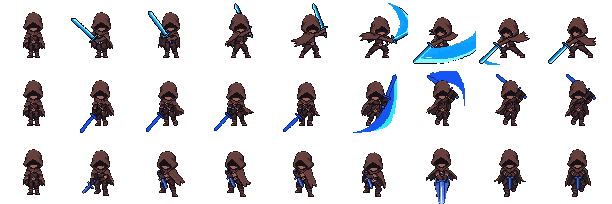
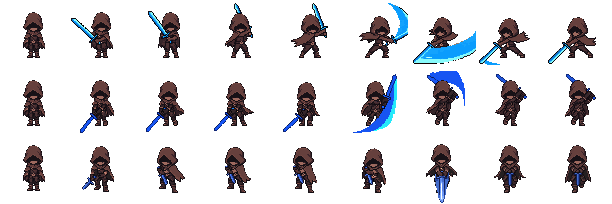
fix: 정면 3타 찌르는 순간 다리가 잘려 보이는 문제 수정
PixelLab 이 칼을 다리 위에 크게 그려 칼을 빼면 다리가 없었다. 찌르는 6~8번째는 칼을 몸 그림에 남기고
(게임 칼 색으로) 게임 칼은 그리지 않는다(길이 비율 0). 칼끝이 잘리지 않게 시트에 6픽셀 올려 담고 그림 옮김으로 되돌림.

diff --git a/assets/concepts/pixellab/player_import/build_remake_preview.py b/assets/concepts/pixellab/player_import/build_remake_preview.py
@@ -48,10 +48,10 @@ OVERRIDES = {
     ('front2', 4): (25, 46, -132, False), ('front2', 5): (44, 29, 62, False),
     ('front2', 6): (47, 28, 140, True), ('front2', 7): (49, 29, 142, True), ('front2', 8): (47, 29, 139, True),
     # 정면 3타 = 찌르기 끝 자세 지정 (2026-11-17 사용자 확정). 칼이 보는 사람 쪽으로 기울어 자동으로 못 찾음
-    ('front3', 1): (25, 45, -129, False), ('front3', 2): (24, 41, -52, False),
-    ('front3', 3): (24, 40, -55, False), ('front3', 4): (25, 40, -59, False),
-    ('front3', 5): (26, 40, -61, False), ('front3', 6): (34, 39, -90, False),
-    ('front3', 7): (34, 39, -90, False), ('front3', 8): (34, 39, -90, False),
+    ('front3', 1): (25, 41, -129, False), ('front3', 2): (24, 37, -52, False),
+    ('front3', 3): (24, 36, -55, False), ('front3', 4): (25, 36, -59, False),
+    ('front3', 5): (26, 36, -61, False), ('front3', 6): (34, 35, -90, False),
+    ('front3', 7): (34, 35, -90, False), ('front3', 8): (34, 35, -90, False),
     # 후면은 두 손이 몸 앞(보는 사람 반대쪽)이라 칼이 몸에 가려진다: 머리 위로 든 때만 몸 위에 그린다
     ('back1', 1): (45, 43, 0, True), ('back1', 2): (44, 38, 54, True),
     ('back1', 3): (42, 28, 134, False), ('back1', 4): (36, 25, 60, False),
@@ -183,6 +183,28 @@ def analyse(frame):
         else:
             smear.extend(comp)
     return best, set(smear), set(blue)
+
+
+# 칼을 빼지 않고 PixelLab 그림 그대로 두는 프레임 (2026-11-17 사용자 결정: 정면 3타 찌르는 순간)
+KEEP_BLADE = {('front3', 6), ('front3', 7), ('front3', 8)}
+# 게임 칼(old_sword.png)의 칼날 색, 어두운 것부터
+STEEL = [(113, 83, 89, 255), (178, 154, 149, 255), (219, 204, 197, 255), (233, 220, 210, 255)]
+
+
+def steel_blade(frame):
+    """파란 칼과 흰 하이라이트를 밝기에 따라 게임 칼 색으로 바꾼다."""
+    img = frame.copy()
+    px = img.load()
+    for y in range(img.height):
+        for x in range(img.width):
+            c = px[x, y]
+            if not c[3]:
+                continue
+            if is_blue(c) or min(c[:3]) > 240:
+                light = sum(c[:3]) / 3
+                level = 0 if light < 90 else 1 if light < 150 else 2 if light < 210 else 3
+                px[x, y] = STEEL[level]
+    return img
 
 
 def white_to_blue(frame):
@@ -438,6 +460,7 @@ def build_layers(name, frames):
     for (n, c), (sheet, row, col) in FRAME_SOURCE.items():
         if n == name:
             frames[c - 1] = cells(sheet, row)[col]
+    originals = list(frames)
     if name in NO_SMEAR:
         # 원본 칼날의 흰 하이라이트 줄(파랑으로 잡히지 않음)도 칼과 함께 지운다. 주인공 그림에는 흰색이 없다.
         frames = [white_to_blue(f) for f in frames]
@@ -493,6 +516,11 @@ def build_layers(name, frames):
                     # 아주 어두운 픽셀은 원본 칼 테두리일 수 있어 칼 위에 다시 그리지 않는다
                     if c[3] and max(c[:3]) >= 45 and math.dist((x, y), (hx, hy)) <= HAND_RADIUS:
                         hand.putpixel((x, y), c)
+        if (name, col) in KEEP_BLADE:
+            # PixelLab 이 그린 칼을 몸 그림에 그대로 둔다 (칼이 다리를 덮어 그려져 빼면 다리가 없음).
+            # 파란 칼만 게임 칼 색으로 바꾸고, 게임 칼과 손 레이어는 그리지 않는다 (칼 길이 비율 0).
+            sheet = steel_blade(originals[col - 1])
+            hand = Image.new('RGBA', (CELL, CELL), (0, 0, 0, 0))
         layers.append({'body': sheet, 'hand': hand, 'sword': (hx, hy, angle, bool(behind))})
     return layers, swords, infos
 

diff --git a/game/config.py b/game/config.py
@@ -139,14 +139,16 @@ PLAYER_ATTACK_SWORD = (
 )
 # 정면(아래를 볼 때) 칼 위치표. 1·2·3타 모두 2026-11-17 PixelLab 그림(8프레임, export_to_game.py 가 뽑은 값.
 # 2타 v9 와 3타 찌르기는 시작·끝 자세를 지정해 만듦). 다섯 번째 값은 칼 길이 비율:
-# 3타는 칼이 보는 사람 쪽으로 기울어 짧아 보이게 그린다 (찌르는 순간만 원래 길이). 후면은 보류 (사용자 결정).
+# 3타는 칼이 보는 사람 쪽으로 기울어 짧아 보이게 그린다. 찌르는 6~8번째는 0 = 게임 칼을 그리지 않고
+# 몸 그림에 남긴 PixelLab 칼(게임 칼 색)을 보여 준다 (칼이 다리를 덮어 그려져 빼면 다리가 없음, 사용자 결정).
+# 후면은 보류 (사용자 결정).
 PLAYER_ATTACK_SWORD_FRONT = (
     ((40, 37, 137, False), (45, 34, 126, False), (61, 32, 117, True), (66, 28, 113, False),
      (64, 38, -40, False), (50, 41, -146, False), (39, 43, -138, False), (38, 41, -135, False)),
     ((40, 45, -129, False), (40, 43, -131, False), (39, 44, -132, False), (39, 44, -132, False),
      (58, 27, 62, False), (61, 26, 140, True), (63, 27, 142, True), (61, 27, 139, True)),
-    ((39, 42, -129, False, 0.6), (38, 38, -52, False, 0.6), (38, 37, -55, False, 0.6), (39, 37, -59, False, 0.6),
-     (40, 37, -61, False, 0.6), (48, 36, -90, False, 1.0), (48, 36, -90, False, 0.55), (48, 36, -90, False, 0.55)),
+    ((39, 36, -129, False, 0.6), (38, 32, -52, False, 0.6), (38, 31, -55, False, 0.6), (39, 31, -59, False, 0.6),
+     (40, 31, -61, False, 0.6), (48, 30, -90, False, 0.0), (48, 30, -90, False, 0.0), (48, 30, -90, False, 0.0)),
 )
 # 정면 타별 프레임 표와 그림 옮김 (같은 진행도에서 고른다). None = 측면과 같은 8프레임 같은 간격.
 # 정면 1·2타는 크게 휘두르는 그림이 측면보다 늦게 나와(1타 6번째, 2타 5번째) 판정 시점에 그 그림이 시작되도록
@@ -159,7 +161,7 @@ PLAYER_ATTACK_FRAME_ENDS_FRONT = (
 PLAYER_ATTACK_FRAME_SHIFTS_FRONT = (
     ((0, 0),) * 8,
     ((0, 0),) * 8,
-    ((0, 0),) * 8,
+    ((0, -6),) * 8,  # 3타: 발 아래로 길게 내민 칼이 잘리지 않게 시트에 6픽셀 올려 담은 것을 되돌림
 )
 # 후면(위를 볼 때) 칼 위치표: 그림이 없어 모두 None → 위를 볼 때는 측면 그림을 쓴다.
 PLAYER_ATTACK_SWORD_BACK = (None, None, None)

diff --git a/tests/test_player.py b/tests/test_player.py
@@ -521,6 +521,20 @@ class PlayerAttackTest(unittest.TestCase):
         self.assertEqual(args[1:], bargs[1:])
         self.assertEqual(kwargs, bkw)
 
+    def test_front_thrust_draws_no_game_sword(self):
+        # 정면 3타 찌르는 순간은 칼이 몸 그림에 들어 있어(PixelLab 칼) 게임 칼을 그리지 않는다
+        self._draw_attack_frame(action=Action.MOVE_DOWN)
+        for _ in range(round(3.0 / self.DT)):
+            combo = self.player.combo
+            if combo.index == 2 and combo.current is not None and combo.current.progress >= 0.55:
+                break
+            self.click()
+        else:
+            self.fail("3타 찌르는 순간에 닿지 못함")
+        renderer = _RecordingRenderer()
+        self.player.draw(renderer)
+        self.assertNotIn("draw_image_rotated", [call[0] for call in renderer.calls])
+
     def test_attack_facing_down_uses_front_sheets(self):
         # 아래를 보면 정면 몸·칼 앞 레이어 시트와 정면 칼 위치표를 쓴다. 반전 없음.
         body, sword, hand = self._draw_attack_frame(action=Action.MOVE_DOWN)

diff --git a/assets/concepts/pixellab/player_import/export_to_game.py b/assets/concepts/pixellab/player_import/export_to_game.py
@@ -59,13 +59,18 @@ VIEW_ATTACKS = {
 }
 
 
+# 정면 3타 찌르기는 칼끝이 발 아래 13픽셀까지 내려와 6픽셀 올려 담는다 (2026-11-17)
+RAISE = {'front3': 6}
+
+
 def export_attacks(view='side'):
     """view 방향의 공격 시트를 내보내고 칼 위치표 {타 번호: [(손 x, 손 y, 각도, 몸 뒤), ...]} 를 돌려준다."""
     tables = {}
     for hit, name, path, row in VIEW_ATTACKS[view]:
         frames = b.cells(path, row)
         cx, foot, _ = ref_anchor(frames[0])
-        dx, dy = ATTACK_W // 2 - cx, ATTACK_FOOT_ROW - foot
+        # RAISE: 발끝 아래로 길게 내민 칼이 잘리지 않게 그림을 위로 올린다 (게임은 PLAYER_ATTACK_FRAME_SHIFTS_FRONT 로 되돌림)
+        dx, dy = ATTACK_W // 2 - cx, ATTACK_FOOT_ROW - foot - RAISE.get(name, 0)
         layers, _, _ = b.build_layers(name, frames[1:])
         body = Image.new('RGBA', (ATTACK_W * len(layers), ATTACK_H), (0, 0, 0, 0))
         hand = Image.new('RGBA', body.size, (0, 0, 0, 0))

diff --git a/game/player/player.py b/game/player/player.py
@@ -395,7 +395,8 @@ class Player:
         # 두 손 잡기: 몸(두 팔, 칼 뒤의 왼손) → 칼 → 오른손 레이어 (오른손이 칼을 감싸 쥔 모습)
         if not behind:
             draw_layer(attack_sheet_path(self.combo.hit_number, view))
-        self._draw_sword(renderer, canvas_x, canvas_bottom, hand_x, hand_y, angle, flip, length)
+        if length > 0:  # 0 = 칼이 몸 그림에 들어 있음 (정면 3타 찌르는 순간)
+            self._draw_sword(renderer, canvas_x, canvas_bottom, hand_x, hand_y, angle, flip, length)
         if behind:
             draw_layer(attack_sheet_path(self.combo.hit_number, view))
         draw_layer(attack_hand_sheet_path(self.combo.hit_number, view))

diff --git a/tests/test_player_assets.py b/tests/test_player_assets.py
@@ -220,7 +220,7 @@ class PlayerAssetTest(unittest.TestCase):
                     self.assertEqual((width, height), (w * count, h))
                 for hand_x, hand_y, angle, behind, *rest in frames:
                     self.assertTrue(0 <= hand_x < w and 0 <= hand_y < h)
-                    self.assertTrue(all(0 < length <= 1.0 for length in rest))
+                    self.assertTrue(all(0 <= length <= 1.0 for length in rest))  # 0 = 칼이 몸 그림에 들어 있음
         self.assertEqual(config.PLAYER_ATTACK_SWORD_BACK, (None, None, None))
 
     def test_front_big_swing_frame_starts_at_hit_time(self):

diff --git a/docs/DECISIONS.md b/docs/DECISIONS.md
@@ -444,6 +444,9 @@
     두 손 찌르기. 칼이 보는 사람 쪽으로 기울어 자동 검출이 안 돼 칼 위치는 모두 OVERRIDES 로 읽었고, 길이 비율(다섯 번째 값)로
     준비·마무리는 짧게(0.6·0.55), 찌르는 순간만 원래 길이. 원본 칼날의 흰 하이라이트와 잔상은 그리지 않는다 (`NO_SMEAR`).
     찌르는 6번째 그림이 판정 시점(진행도 0.5)에 시작한다. 예전 5프레임 정면 3타 그림은 더 쓰지 않는다.
+    고침 (같은 날, 사용자 지적: 다리가 잘림): PixelLab 이 칼을 다리 위에 크게 그려 칼을 빼면 다리가 없다. 찌르는 6~8번째는
+    칼을 몸 그림에 남기고(`KEEP_BLADE`, 파랑 → 게임 칼 색 `steel_blade`) 칼 길이 비율 0 = 게임 칼을 그리지 않는다.
+    칼끝이 발 아래 13픽셀까지 내려와 시트에 6픽셀 올려 담고(`RAISE`) `PLAYER_ATTACK_FRAME_SHIFTS_FRONT` 3타 (0, -6) 으로 되돌린다.
   - 후면 공격 그림은 없음 (`PLAYER_ATTACK_SWORD_BACK = (None, None, None)`): 위를 볼 때 측면 그림. `attack_view(facing, hit)` 이
     그 방향에 그 타의 표가 없으면 측면을 고른다.
   - PixelLab 정면 2·3타·후면은 여러 방식(pixminimax, v3, 시작·끝 자세 지정, 이미지 편집 pixen·pro, skeleton, 칼 합성)으로

diff --git a/docs/HANDOFF.md b/docs/HANDOFF.md
@@ -32,6 +32,7 @@
   정면 2타는 이어서 v9(끝 자세를 create_character_state 로 만들어 지정)로 교체, 3타는 예전 5프레임, 후면은 측면 그림.
   정면 1·2타는 휘두르는 그림이 판정 시점에 맞게 프레임 표를 따로 둠. 테스트 208개 통과.
   이어서 정면 3타도 같은 방법(찌르기 끝 자세 지정)으로 PixelLab 두 손 찌르기로 교체 (사용자 확정). 테스트 215개 통과.
+  찌르는 순간 다리가 잘려 보여(칼 아래 다리가 없음) 그 3프레임은 PixelLab 칼을 그림에 남김 (D-031). 테스트 216개 통과.
   핵심 자세는 `create_character_state`(10회분, 4방향)로 만들고 pixminimax 시작·끝 자세로 넣는 방법이 가장 잘 됨.
 - **다음 작업자가 알아야 할 것**: 그림을 다시 만들면 `python assets/concepts/pixellab/player_import/export_to_game.py` 를 실행하고
   출력되는 `PLAYER_ATTACK_SWORD` 를 `game/config.py` 에 붙여 넣는다. 미리보기 GIF 는 `build_remake_preview.py`.

diff --git a/PRE-PRD.md b/PRE-PRD.md
@@ -85,6 +85,7 @@
     판정은 휘두르는 프레임: 1타 ⑤(선딜 약 0.34초), 2타 ③(약 0.17초), 3타 ⑤(약 0.375초).
     정면은 **1·2·3타 모두 PixelLab 그림**(8프레임, 2·3타는 시작·끝 자세를 지정해 만듦)입니다.
     3타는 두 손으로 칼끝을 보는 사람 쪽으로 곧게 찌르는 그림입니다 (2026-11-17 사용자 확정).
+    찌르는 순간(6~8번째)은 PixelLab 이 다리 위에 그린 큰 칼을 그대로 보여 주고(게임 칼 색), 그 순간만 칼을 바꿔 끼우지 않습니다 (2026-11-17 사용자 결정).
     정면은 크게 휘두르거나 찌르는 그림이 판정 시점(측면과 같은 박자)에 나오도록 준비 프레임을 빨리 넘깁니다.
     후면은 그림이 없어 측면 그림을 임시로 씁니다. PixelLab 정면 2·3타·후면은 몸을 돌리는 등 써 보고 보류 (2026-11-17 사용자 결정).
   - ~~2타 동작, 콤보 입력 시간, 공격 판정은 아직 정하지 않았습니다.~~
